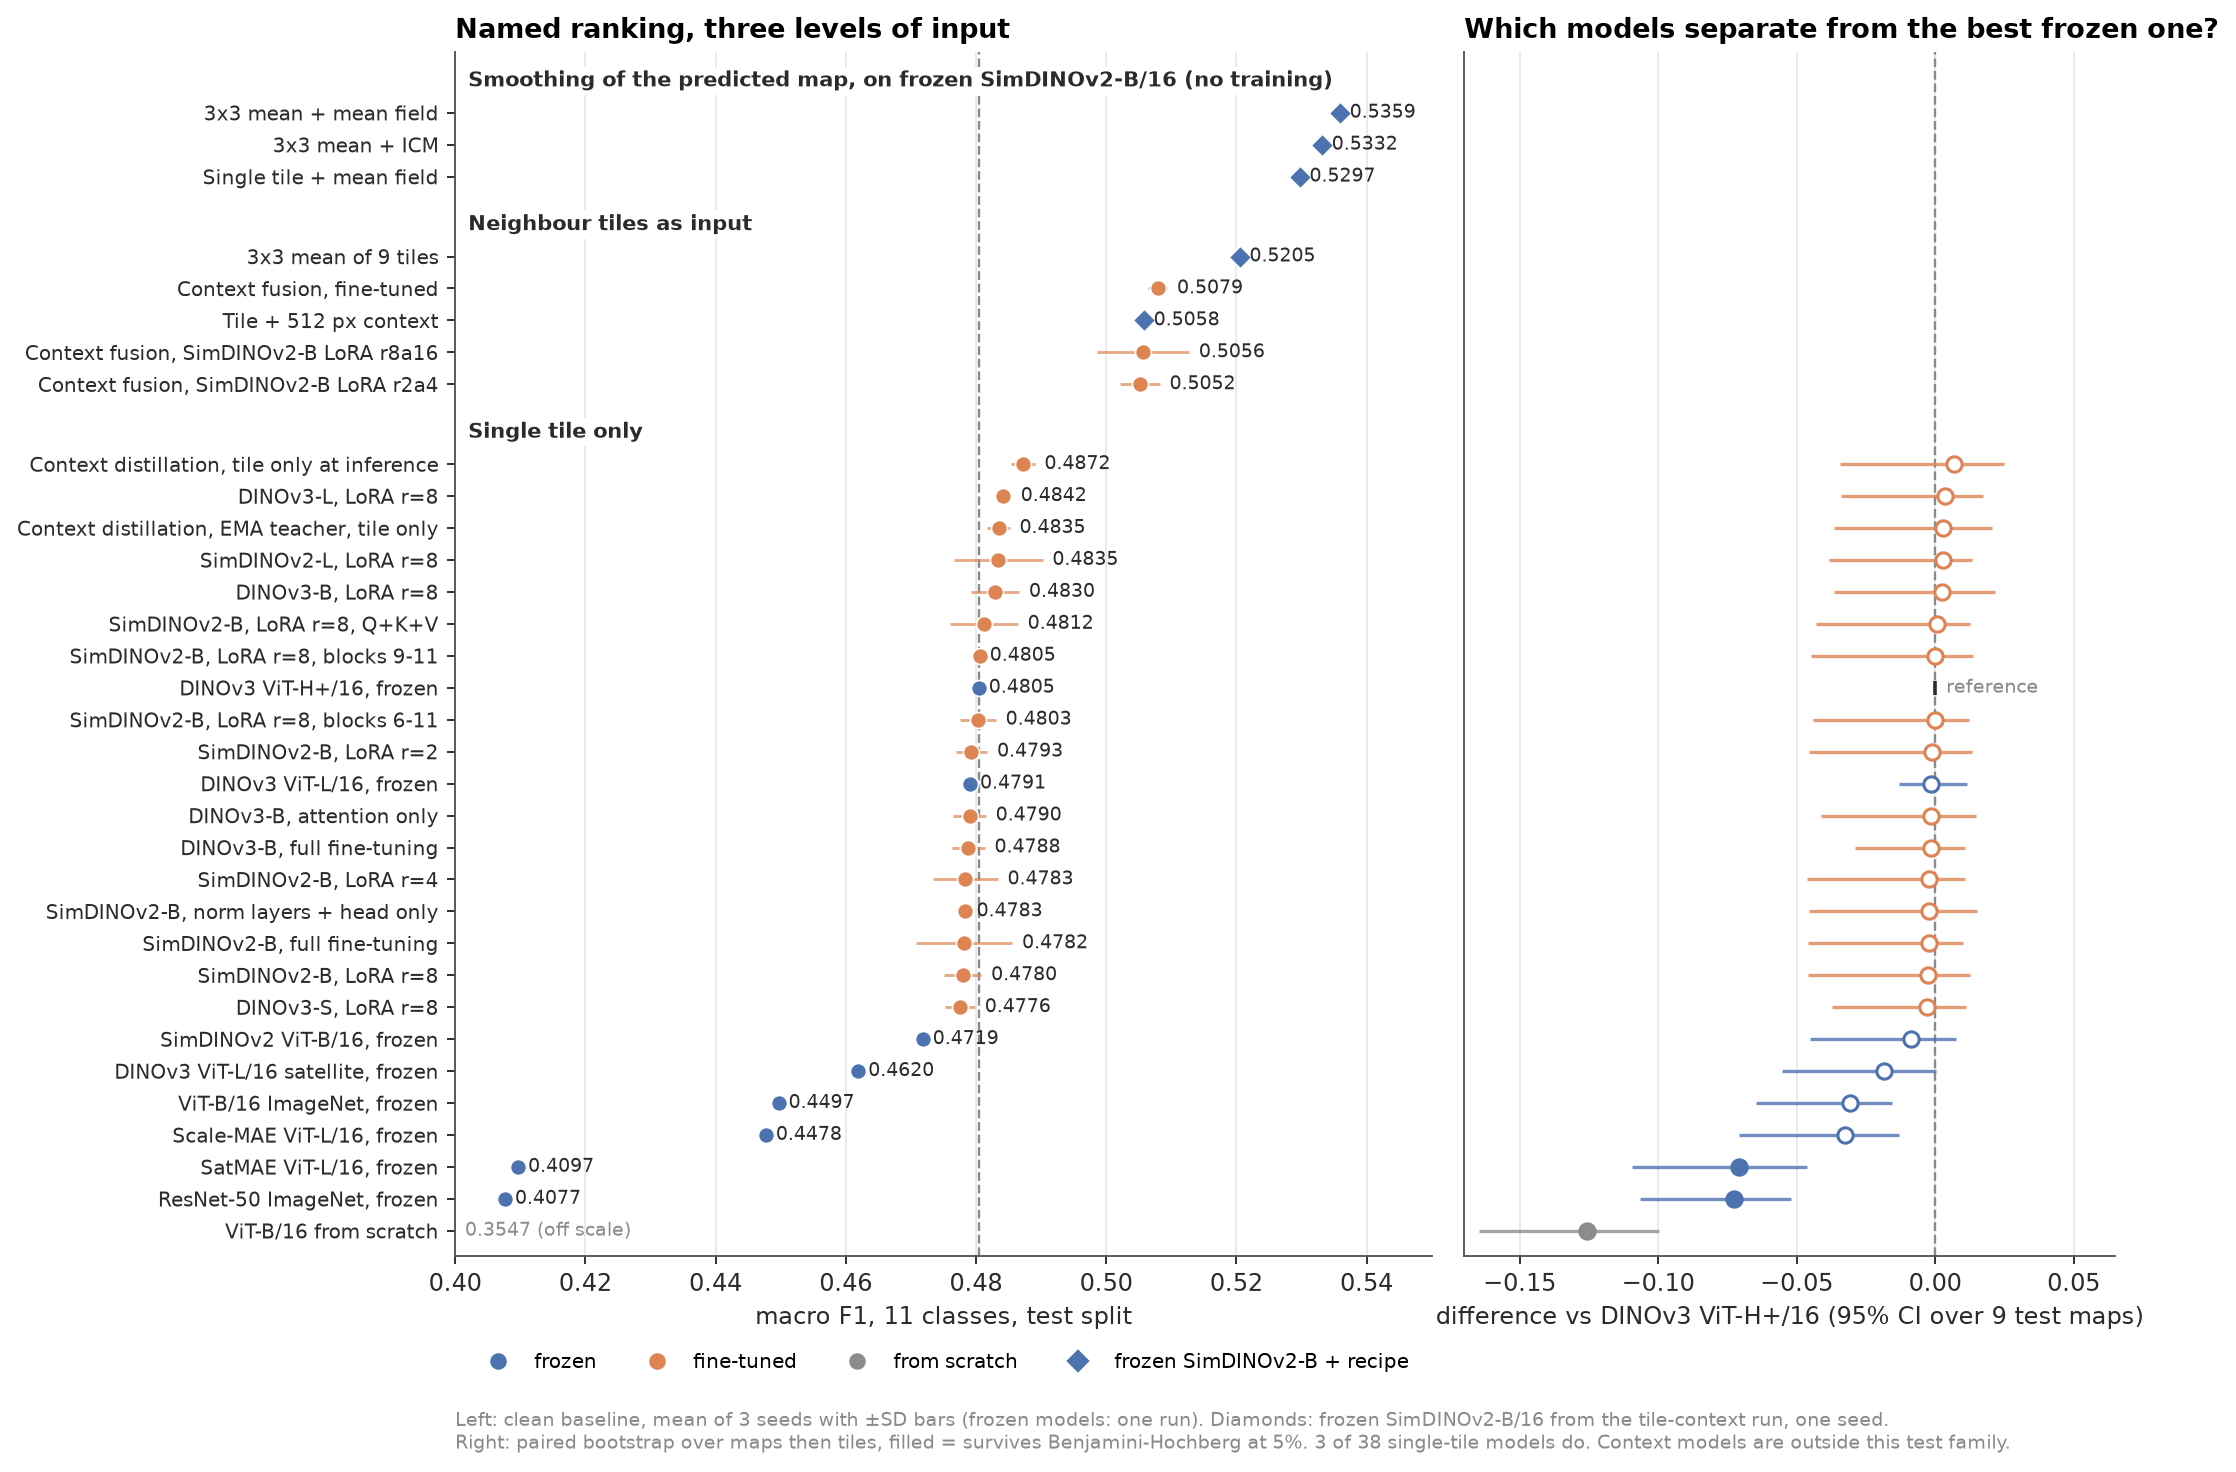
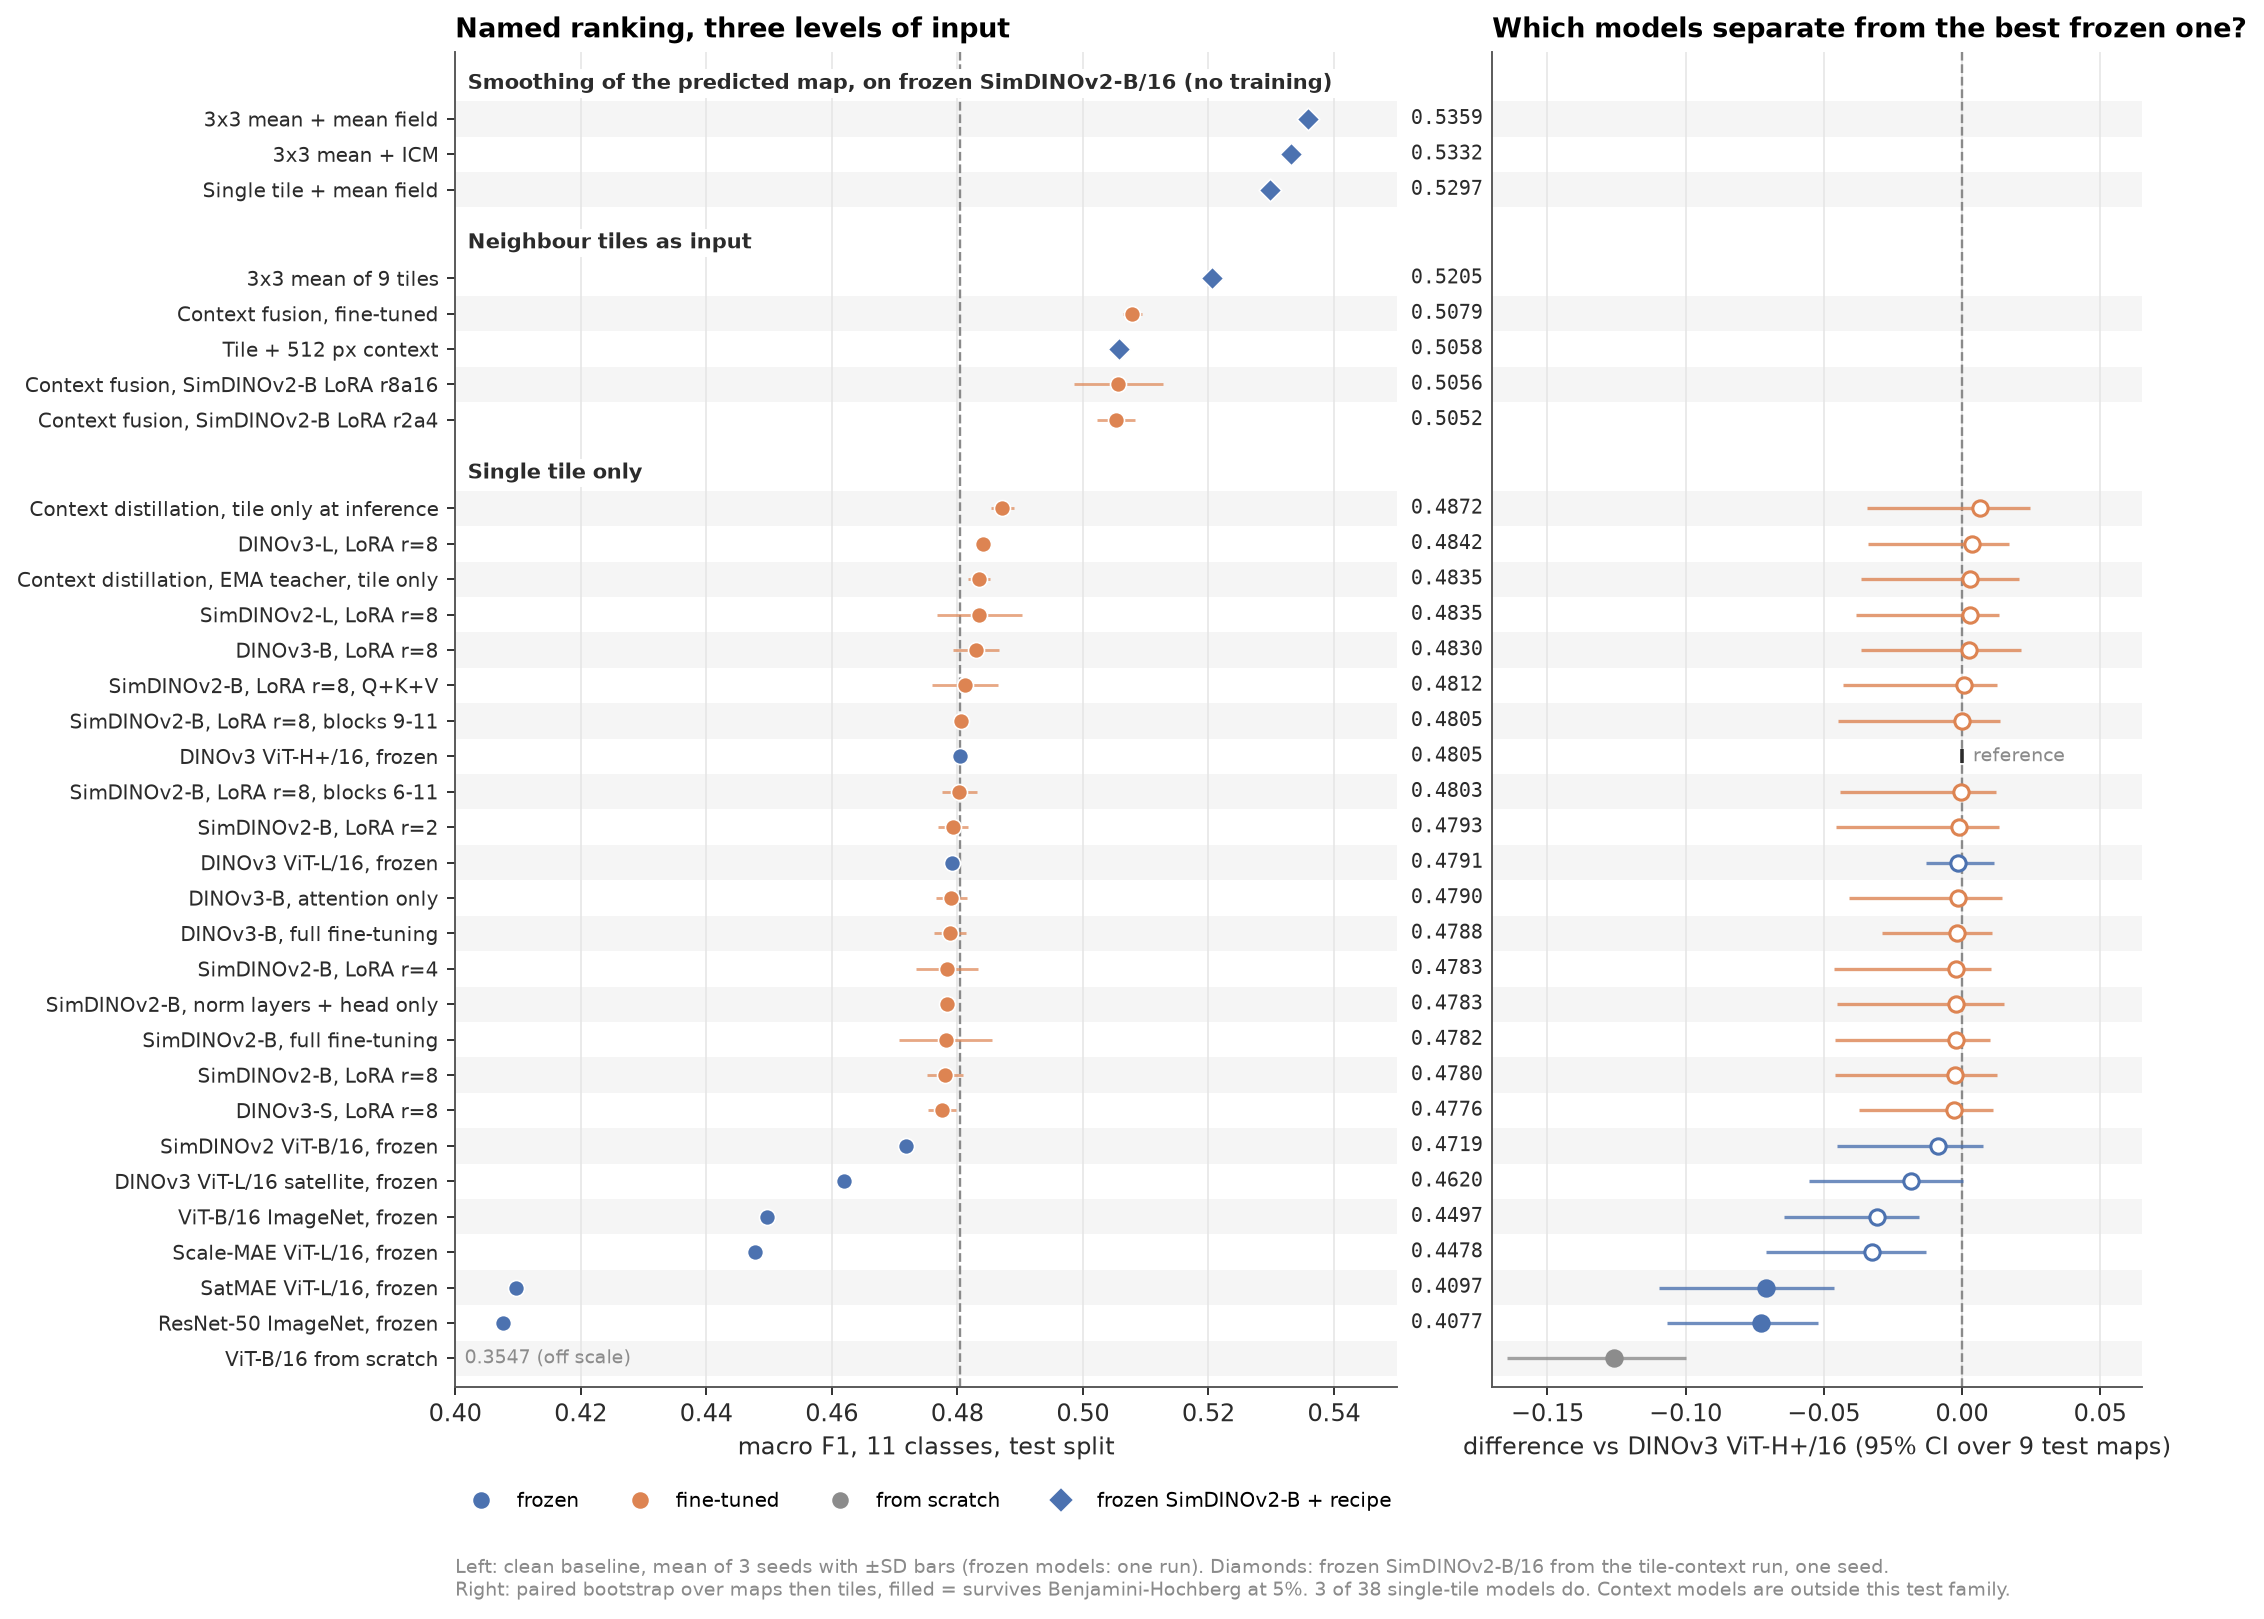
README figures: value column and zebra rows in the 11-class ranking, context arms in the 8-class view, arms sorted by score

diff --git a/scripts/make_readme_plots.py b/scripts/make_readme_plots.py
@@ -207,12 +207,17 @@ def fig_leaderboard():
             y -= 1.0
         y -= 0.5
 
-    fig, (a, b) = plt.subplots(1, 2, figsize=(12.6, 9.2), sharey=True,
-                               gridspec_kw={"width_ratios": [1.5, 1], "wspace": 0.04})
+    fig, (a, b) = plt.subplots(1, 2, figsize=(12.8, 10.2), sharey=True,
+                               gridspec_kw={"width_ratios": [1.45, 1], "wspace": 0.12})
     best_frozen = sc.loc[ref, "mean"]
     a.axvline(best_frozen, color=COL["grey"], ls="--", lw=1)
     b.axvline(0, color=COL["grey"], ls="--", lw=1)
     yticks, ylabels = [], []
+    rows_y = [y for kind, _, y in layout if kind == "row"]
+    for k, yy in enumerate(rows_y):
+        if k % 2 == 0:
+            a.axhspan(yy - 0.5, yy + 0.5, color="#F5F5F5", lw=0, zorder=0)
+            b.axhspan(yy - 0.5, yy + 0.5, color="#F5F5F5", lw=0, zorder=0)
     for kind, item, y in layout:
         if kind == "hdr":
             a.text(0.402, y, item, fontsize=9, fontweight="bold", color=COL["ink"], va="center", zorder=5,
@@ -230,7 +235,8 @@ def fig_leaderboard():
             a.text(0.4015, y, f"{x:.4f} (off scale)", fontsize=8, va="center", color=c)
         else:
             a.scatter([x], [y], s=46, color=c, marker=mk, edgecolor="white", linewidth=0.7, zorder=3)
-            a.text(x + (r["sd"] or 0) + 0.0015, y, f"{x:.4f}", fontsize=8, va="center", color=COL["ink"])
+            a.text(1.015, y, f"{x:.4f}", transform=a.get_yaxis_transform(), fontsize=8.5,
+                   va="center", ha="left", color=COL["ink"], family="DejaVu Sans Mono")
         if r["key"] is not None:
             if r["key"] == ref:
                 b.scatter([0], [y], s=40, color=COL["ink"], marker="|", zorder=3)
@@ -412,6 +418,7 @@ def fig_gnn():
     fig, axes = plt.subplots(2, 1, figsize=(8.6, 5.8), sharex=True, gridspec_kw={"hspace": 0.38})
     for ax, (title, ref, rows) in zip(axes, groups):
         ax.axvline(ref, color=COL["grey"], ls="--", lw=1)
+        rows = sorted(rows, key=lambda r: r[1])
         n = len(rows)
         for i, (lab, v, spread, p, is_ref) in enumerate(rows):
             y = n - 1 - i
@@ -549,6 +556,49 @@ def readme_scores_8cls() -> pd.DataFrame:
     return out.set_index("key")
 
 
+
+def arms_scores() -> pd.DataFrame:
+    """11-class and 8-class macro F1 of the context, decoding and aggregation arms.
+
+    Read from the saved predictions, with the same 8-class convention as readme_scores_8cls:
+    macro F1 over the 8 kept classes on the full test split. 2-D arrays hold one row per seed.
+    """
+    from sklearn.metrics import f1_score
+    out = ROOT / "research" / "gnn_grid_2026-10-31" / "out"
+    tiles = jload(out / "canonical_split.json")["tiles"]
+    y = np.array([t["label"] for t in tiles if t["split"] == "test"])
+    keep = [0, 2, 4, 5, 6, 8, 9, 10]
+    present = sorted(set(y.tolist()))
+    specs = [
+        ("Single tile", "decoding/preds/R0_base.npy"),
+        ("3x3 mean", "decoding/preds/R3_base.npy"),
+        ("Single tile + mean field", "decoding/preds/R0_MF.npy"),
+        ("3x3 mean + ICM", "decoding/preds/R3_ICM.npy"),
+        ("3x3 mean + mean field", "decoding/preds/R3_MF.npy"),
+        ("Attention over the 3x3 window", "canon/preds/L1.npy"),
+        ("Attention, positions shuffled", "canon/preds/L1p.npy"),
+        ("CNN on the 3x3 window", "canon/preds/L2.npy"),
+        ("Uniform mean over the graph", "gnn/MEAN9/preds/MEAN9.npy"),
+        ("GATv2, 2 layers", "gnn/GNN2/preds/GNN2.npy"),
+        ("GATv2, 3 layers", "gnn/GNN3/preds/GNN3.npy"),
+        ("GATv2, edges shuffled", "gnn/GNN2rw/preds/GNN2rw.npy"),
+    ]
+
+    def score(pred, labels):
+        if pred.ndim == 2:
+            return float(np.mean([f1_score(y, row, average="macro", labels=labels, zero_division=0)
+                                  for row in pred]))
+        return float(f1_score(y, pred, average="macro", labels=labels, zero_division=0))
+
+    rows = []
+    for name, rel in specs:
+        f = out / rel
+        if not f.exists():
+            continue
+        pred = np.load(f)
+        rows.append((name, score(pred, present), score(pred, keep)))
+    return pd.DataFrame(rows, columns=["label", "f11", "f8"])
+
 def fig_classes8():
     sc = readme_scores_8cls()
     from scipy.stats import spearmanr, kendalltau
@@ -566,19 +616,26 @@ def fig_classes8():
     a.scatter([sc.loc["dinov3_vith16plus_lvd", "f11"]], [sc.loc["dinov3_vith16plus_lvd", "f8"]],
               s=120, facecolor="none", edgecolor=COL["ink"], linewidth=1.1, zorder=4,
               label="best frozen (DINOv3-H+)")
-    labels = {"ctxdistill_dB_tL": (-7, 7), "dinov3_vitl16_lvd_lora": (7, 5),
-              "dinov3_vitb16_lvd_full": (9, -9), "vitb16_scratch_old": (6, 0)}
-    for k, off in labels.items():
-        a.annotate(LABELS[k], (sc.loc[k, "f11"], sc.loc[k, "f8"]), xytext=off, textcoords="offset points",
-                   fontsize=8, color=COL["ink"], ha="left" if off[0] > 0 else "right")
-    a.set_xlim(0.345, 0.532)
+    labels = {"ctxdistill_dB_tL": (-7, 8, False), "dinov3_vitb16_lvd_full": (34, -30, True),
+              "vitb16_scratch_old": (6, 0, False)}
+    for k, (dx, dy, arrow) in labels.items():
+        a.annotate(LABELS[k], (sc.loc[k, "f11"], sc.loc[k, "f8"]), xytext=(dx, dy),
+                   textcoords="offset points", fontsize=8, color=COL["ink"],
+                   ha="left" if dx > 0 else "right",
+                   arrowprops=dict(arrowstyle="-", lw=0.8, color=COL["grey"]) if arrow else None)
+    arms = arms_scores()
+    if len(arms):
+        a.scatter(arms.f11, arms.f8, s=58, marker="D", color=COL["nbr"], edgecolor="white",
+                  linewidth=0.7, zorder=3, label="context and aggregation arms")
+
+    a.set_xlim(0.345, 0.548)
     a.set_xlabel("macro F1, 11 classes")
     a.set_ylabel("macro F1, 8 classes")
-    a.legend(loc="upper left", bbox_to_anchor=(0.0, 0.84), fontsize=8.5)
+    a.legend(loc="upper left", bbox_to_anchor=(0.0, 0.80), fontsize=8.5)
     a.text(0.98, 0.03, f"Spearman {rho.statistic:.3f}, Kendall {kendalltau(sc.f11, sc.f8).statistic:.3f}.\n"
            f"Median gain {(sc.f8 - sc.f11).median():+.3f}.", transform=a.transAxes,
            fontsize=8.5, va="bottom", ha="right", color=COL["grey"])
-    a.set_title("The same 42 configurations, 8 classes instead of 11")
+    a.set_title("8 classes instead of 11")
 
     buckets = [0, 1, 2]
     counts = [int((move.abs() == k).sum()) for k in buckets] + [int((move.abs() >= 3).sum())]

diff --git a/README.md b/README.md
@@ -158,6 +158,8 @@ Three classes score exactly zero for these two models (all 3 seeds for the fine-
 
 ![8-class view](figures/readme/08_classes_8.png)
 
+The figure shows the 42 configurations and, as red diamonds, the context, decoding and aggregation arms (each from its own run). The rank-change panel on the right covers the 42 configurations only.
+
 ARCA, DRYI and RUBC score near zero for every model, so they lower the macro average without separating models. The 8-class view drops them (321 of 17,598 test tiles) and reports the macro F1 over the remaining 8, with the same 11-class classifier: their tiles stay in the test split, so a kept class they are predicted as counts as a false positive, and a kept tile predicted as one of the three counts as a false negative. The three classes are simply not scored. This is the convention of the `f1_macro_8cls_test` field that each training run writes. It is not a refit on 8 classes. Refits on the 8 classes exist from an earlier campaign (24 entries), but they follow a different protocol and are not used here.
 
 - The level rises by about 0.18 (median +0.179): the 42 configurations span 0.3547 to 0.5079 in 11 classes and 0.4805 to 0.6984 in 8 classes.
@@ -165,22 +167,24 @@ ARCA, DRYI and RUBC score near zero for every model, so they lower the macro ave
 - The two movers are DINOv3-B with full fine-tuning (9 places down) and DINOv3-B with attention only (3 places down). The difference between the two rankings comes entirely from the three dropped classes, which weigh 3/11 of the 11-class average. DINOv3-B full has the highest ARCA score of the 42 (0.039), worth about +0.0035 on its own. Nine models have a non-zero ARCA score, none above 0.040.
 - The best recipe (3x3 mean + mean field) reads 0.5359 in 11 classes and 0.7369 in 8 classes.
 
-| Arm | 11 classes | 8 classes |
-|---|---:|---:|
-| Single tile | 0.4719 | 0.6489 |
-| 3x3 mean | 0.5207 | 0.7160 |
-| Single tile + mean field | 0.5297 | 0.7284 |
-| 3x3 mean + ICM | 0.5332 | 0.7331 |
-| 3x3 mean + mean field | 0.5359 | 0.7369 |
-| Attention over the 3x3 window | 0.5085 | 0.6957 |
-| Attention, positions shuffled | 0.5115 | 0.6999 |
-| CNN on the 3x3 window | 0.4824 | 0.6575 |
-| Uniform mean over the graph | 0.4924 | 0.6770 |
-| GATv2, 2 layers | 0.4891 | 0.6725 |
-| GATv2, 3 layers | 0.4933 | 0.6783 |
-| GATv2, edges shuffled | 0.4648 | 0.6391 |
+Rows are sorted by 8-class F1, ascending; the last column gives the run each value comes from.
 
-The order is the same in both schemas within each run. The first five rows come from the decoding run, the next three from the probe-arms run, the last four from the aggregation run.
+| Arm | 11 classes | 8 classes | Run |
+|---|---:|---:|---|
+| GATv2, edges shuffled | 0.4648 | 0.6391 | aggregation |
+| Single tile | 0.4719 | 0.6489 | decoding |
+| CNN on the 3x3 window | 0.4824 | 0.6575 | probe-arms |
+| GATv2, 2 layers | 0.4891 | 0.6725 | aggregation |
+| Uniform mean over the graph | 0.4924 | 0.6770 | aggregation |
+| GATv2, 3 layers | 0.4933 | 0.6783 | aggregation |
+| Attention over the 3x3 window | 0.5085 | 0.6957 | probe-arms |
+| Attention, positions shuffled | 0.5115 | 0.6999 | probe-arms |
+| 3x3 mean | 0.5207 | 0.7160 | decoding |
+| Single tile + mean field | 0.5297 | 0.7284 | decoding |
+| 3x3 mean + ICM | 0.5332 | 0.7331 | decoding |
+| 3x3 mean + mean field | 0.5359 | 0.7369 | decoding |
+
+These arms are plotted as red diamonds in the figure above.
 
 ## Protocol
 
